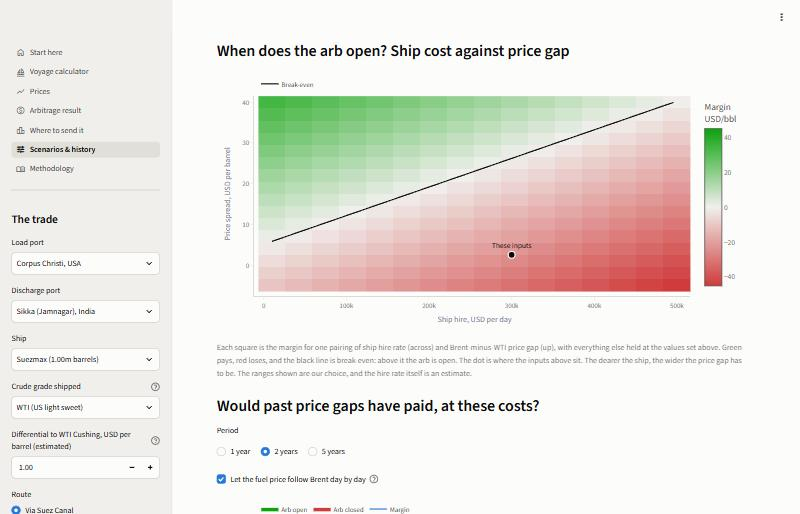
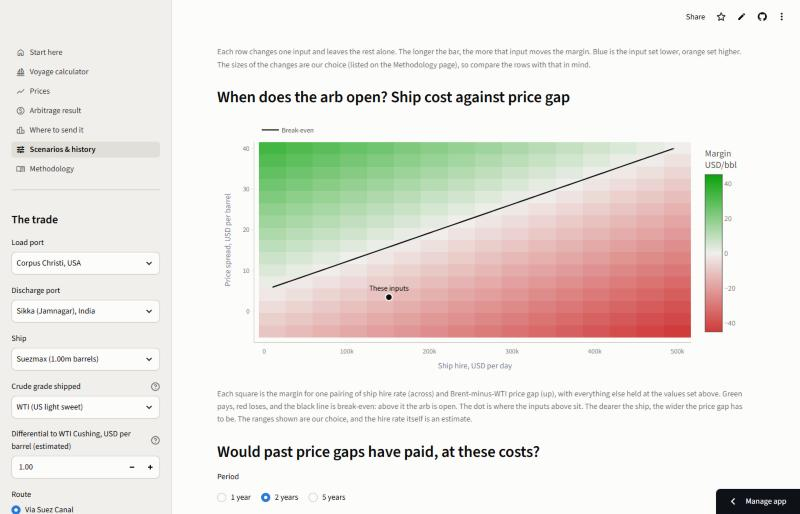
Retake ranking and grid screenshots at mid-November rates; note in PROGRESS

diff --git a/docs/PROGRESS.md b/docs/PROGRESS.md
@@ -49,6 +49,10 @@ Stages: 0 loose ends, 1 destination ranking, 2 freight-vs-spread grid, 3 broker 
     $31m against the Baltic's published $33.8m lump sum (about 9% lower).
   - Base case now (prices 17 Nov): freight $14.59/bbl, margin -$12.32, break-even spread $15.75.
     Tests that had prices built in now read them from the YAML. 198 tests pass.
+  - All four README screenshots retaken from the live site at the mid-November rates. The
+    "Where to send it" page said it used the cheapest route; it keeps the higher-margin route
+    (as `engine/ranking.py` does, which differs only when a steep contango is typed in), so the
+    wording now says that.
 - **Independent review of Stages 1-7, 17 Nov 2026.** Three reviewers (economics, pages, sources)
   with every finding re-checked by a second reviewer; 27 confirmed, all fixed. The ones that
   changed numbers:
